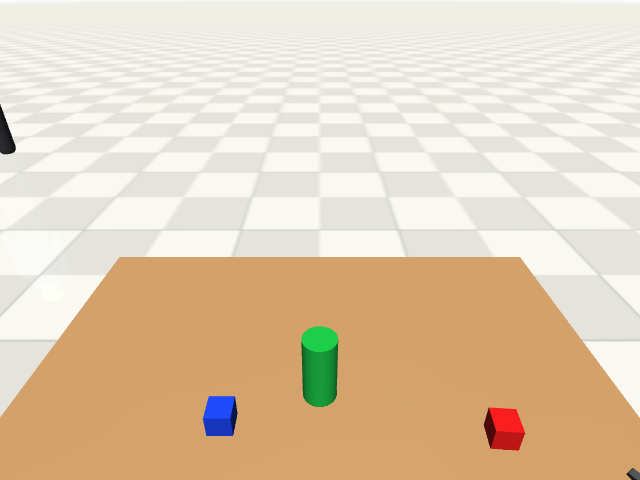
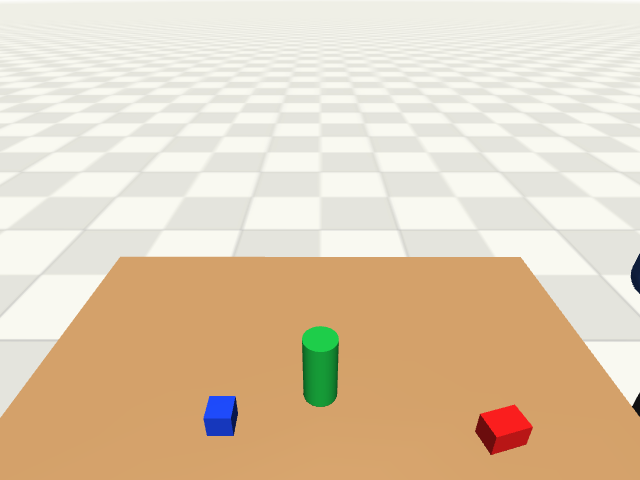
Keep arm joints away from their limits and moves short
The IK clipped joints at the hard limit and returned the first solution
it found, so grasps ended with a5 exactly at 120 deg and the old home and
wave poses sat 2 deg from the a2/a3 limits. Moving between them turned
joints by up to 166 deg.

IK now stays 15 deg inside every limit and picks, among up to six
solutions, the one closest to the current pose. ARM_HOME and ARM_WAVE are
chosen from the same joint configuration as the table grasps, so the
largest joint turn per move in demo.py is 38 deg and every joint keeps at
least 28 deg of margin.

diff --git a/lumi_api.py b/lumi_api.py
@@ -32,9 +32,14 @@ BODY_ACTUATORS = ["lift", "waist", "head_yaw", "head_pitch"]
 GRIPPER_OPEN = 0
 GRIPPER_CLOSED = 255
 
-# Arm poses in degrees (found with solve_ik, then rounded)
-ARM_HOME = [3, 43, 128, -60, 94, -54]          # gripper in front of the chest, pointing forward and down
-ARM_WAVE = [136, -123, 99, -134, 73, -47]      # gripper raised to head height, pointing up
+# Arm poses in degrees, at least 30 deg inside every joint limit. HOME sits in the same joint
+# configuration as the table grasps, so going to the table is mostly a waist turn, not an arm flip
+ARM_HOME = [178, -91, 77, 28, 89, 135]   # ready pose on the right side: elbow up, gripper forward and down
+ARM_WAVE = [206, -95, 39, 65, 52, 136]   # hand raised above the head; every joint within 40 deg of ARM_HOME
+
+# IK keeps every joint at least this far (deg) inside its limit. The real controller stops with a
+# soft-limit error before the hard limit, so poses right at the edge are not usable there.
+JOINT_MARGIN = 15.0
 
 BODY_SPEED = [100.0, 60.0, 90.0, 60.0]   # mm/s, deg/s, deg/s, deg/s at vel=100
 ARM_SPEED = 90.0                          # deg/s at vel=100
@@ -56,6 +61,7 @@ class LumiSim:
         self._ik_qpos = [self.model.joint("l_2").qposadr[0]] + self._arm_qpos
         self._ik_dof = [self.model.joint("l_2").dofadr[0]] + self._arm_dof
         self._ik_range = np.vstack([self.model.joint("l_2").range, self._arm_range])
+        self._ik_safe = self._ik_range + np.deg2rad(JOINT_MARGIN) * np.array([1, -1])
         # every body from the waist up (arm and gripper included), for the IK collision check
         waist = self.model.body("link_2").id
         self._upper_bodies = [b for b in range(self.model.nbody) if self._has_ancestor(b, waist)]
@@ -138,26 +144,30 @@ class LumiSim:
         """Point between the gripper fingers, in the robot frame (m)."""
         return self.world_to_robot(self.data.site_xpos[self._pinch])
 
-    def solve_ik(self, xyz, approach=(0, 0, -1), use_waist=True, restarts=40):
+    def solve_ik(self, xyz, approach=(0, 0, -1), use_waist=True, restarts=40, keep=6):
         """Waist angle and arm joint angles (degrees) that put the fingertip point at `xyz` (robot frame, m)
         with the gripper pointing along `approach` (robot frame; default straight down). Rotation around
         the approach axis is left free. The arm is short and mounted on the robot's right side, so most
         points in front are only reachable after turning the waist; use_waist=False keeps the waist still.
 
         Damped least squares on a scratch copy of the state (the simulation is not disturbed), started
-        from the current pose and then from random poses. Solutions where the robot would be in collision
-        are rejected. Raises ValueError if nothing is found."""
+        from the current pose and then from random poses. Joints stay JOINT_MARGIN inside their limits and
+        solutions where the robot would be in collision are rejected. Up to `keep` solutions are collected
+        and the one closest to the current pose wins, so the arm takes the shortest, least contorted move.
+        Raises ValueError if nothing is found."""
         target = self.robot_to_world(xyz)
         axis = self._base_rotation() @ (np.asarray(approach, dtype=float) / np.linalg.norm(approach))
         qpos = self._ik_qpos if use_waist else self._ik_qpos[1:]
         dof = self._ik_dof if use_waist else self._ik_dof[1:]
-        limits = self._ik_range if use_waist else self._ik_range[1:]
+        limits = self._ik_safe if use_waist else self._ik_safe[1:]
         d = self._ik_data
         jacp = np.zeros((3, self.model.nv))
         jacr = np.zeros((3, self.model.nv))
         rng = np.random.default_rng(0)
+        solutions = []
         for attempt in range(restarts):
             d.qpos[:] = self.data.qpos
+            d.qpos[qpos] = np.clip(d.qpos[qpos], limits[:, 0], limits[:, 1])
             if attempt > 0:
                 d.qpos[qpos] = rng.uniform(np.maximum(limits[:, 0], -np.pi), np.minimum(limits[:, 1], np.pi))
             for _ in range(200):
@@ -177,12 +187,21 @@ class LumiSim:
                 d.qpos[qpos] = np.clip(d.qpos[qpos] + np.clip(dq, -0.2, 0.2), limits[:, 0], limits[:, 1])
             else:
                 continue                                           # did not converge from this start
-            # a1, a4, a6 can turn +-360: take the turn nearest to where the joint is now
-            for adr in (self._arm_qpos[0], self._arm_qpos[3], self._arm_qpos[5]):
-                d.qpos[adr] = self.data.qpos[adr] + (d.qpos[adr] - self.data.qpos[adr] + np.pi) % (2 * np.pi) - np.pi
-            if not self._in_collision(d):
-                return np.rad2deg(d.qpos[self._ik_qpos[0]]), np.rad2deg(d.qpos[self._arm_qpos])
-        raise ValueError(f"no IK solution for {np.round(xyz, 3)} (out of reach?)")
+            # a1, a4, a6 can turn +-360: take the turn nearest to where the joint is now, if it stays in range
+            for i, adr in ((1, self._arm_qpos[0]), (4, self._arm_qpos[3]), (6, self._arm_qpos[5])):
+                near = self.data.qpos[adr] + (d.qpos[adr] - self.data.qpos[adr] + np.pi) % (2 * np.pi) - np.pi
+                if self._ik_safe[i, 0] <= near <= self._ik_safe[i, 1]:
+                    d.qpos[adr] = near
+            if self._in_collision(d):
+                continue
+            q = d.qpos[self._ik_qpos].copy()
+            solutions.append((np.sum(np.abs(q - self.data.qpos[self._ik_qpos])), q))
+            if len(solutions) >= keep:
+                break
+        if not solutions:
+            raise ValueError(f"no IK solution for {np.round(xyz, 3)} (out of reach?)")
+        q = min(solutions, key=lambda s: s[0])[1]
+        return np.rad2deg(q[0]), np.rad2deg(q[1:])
 
     def _in_collision(self, d):
         """True if, in state `d`, any robot part above the base touches the robot or the fixed world.

diff --git a/demo.py b/demo.py
@@ -11,7 +11,7 @@ from pathlib import Path
 import cv2
 import numpy as np
 
-from lumi_api import LumiSim
+from lumi_api import ARM_HOME, LumiSim
 
 MEDIA = Path(__file__).parent / "media"
 
@@ -36,7 +36,7 @@ def main():
     print("   cube height after pick: %.3f m (table top is 0.750)" % robot.object_position("red_cube")[2])
     goal = cube + [0, -0.12, 0]
     robot.place(goal)
-    robot.arm_joint_move([3, 43, 128, -60, 94, -54])
+    robot.arm_joint_move(ARM_HOME)
     robot.body_moveto([0, 0, 0, 30])
     print("   cube is %.3f m from the goal" % np.linalg.norm(robot.object_position("red_cube") - goal))
     save(robot, "after_place.png")
